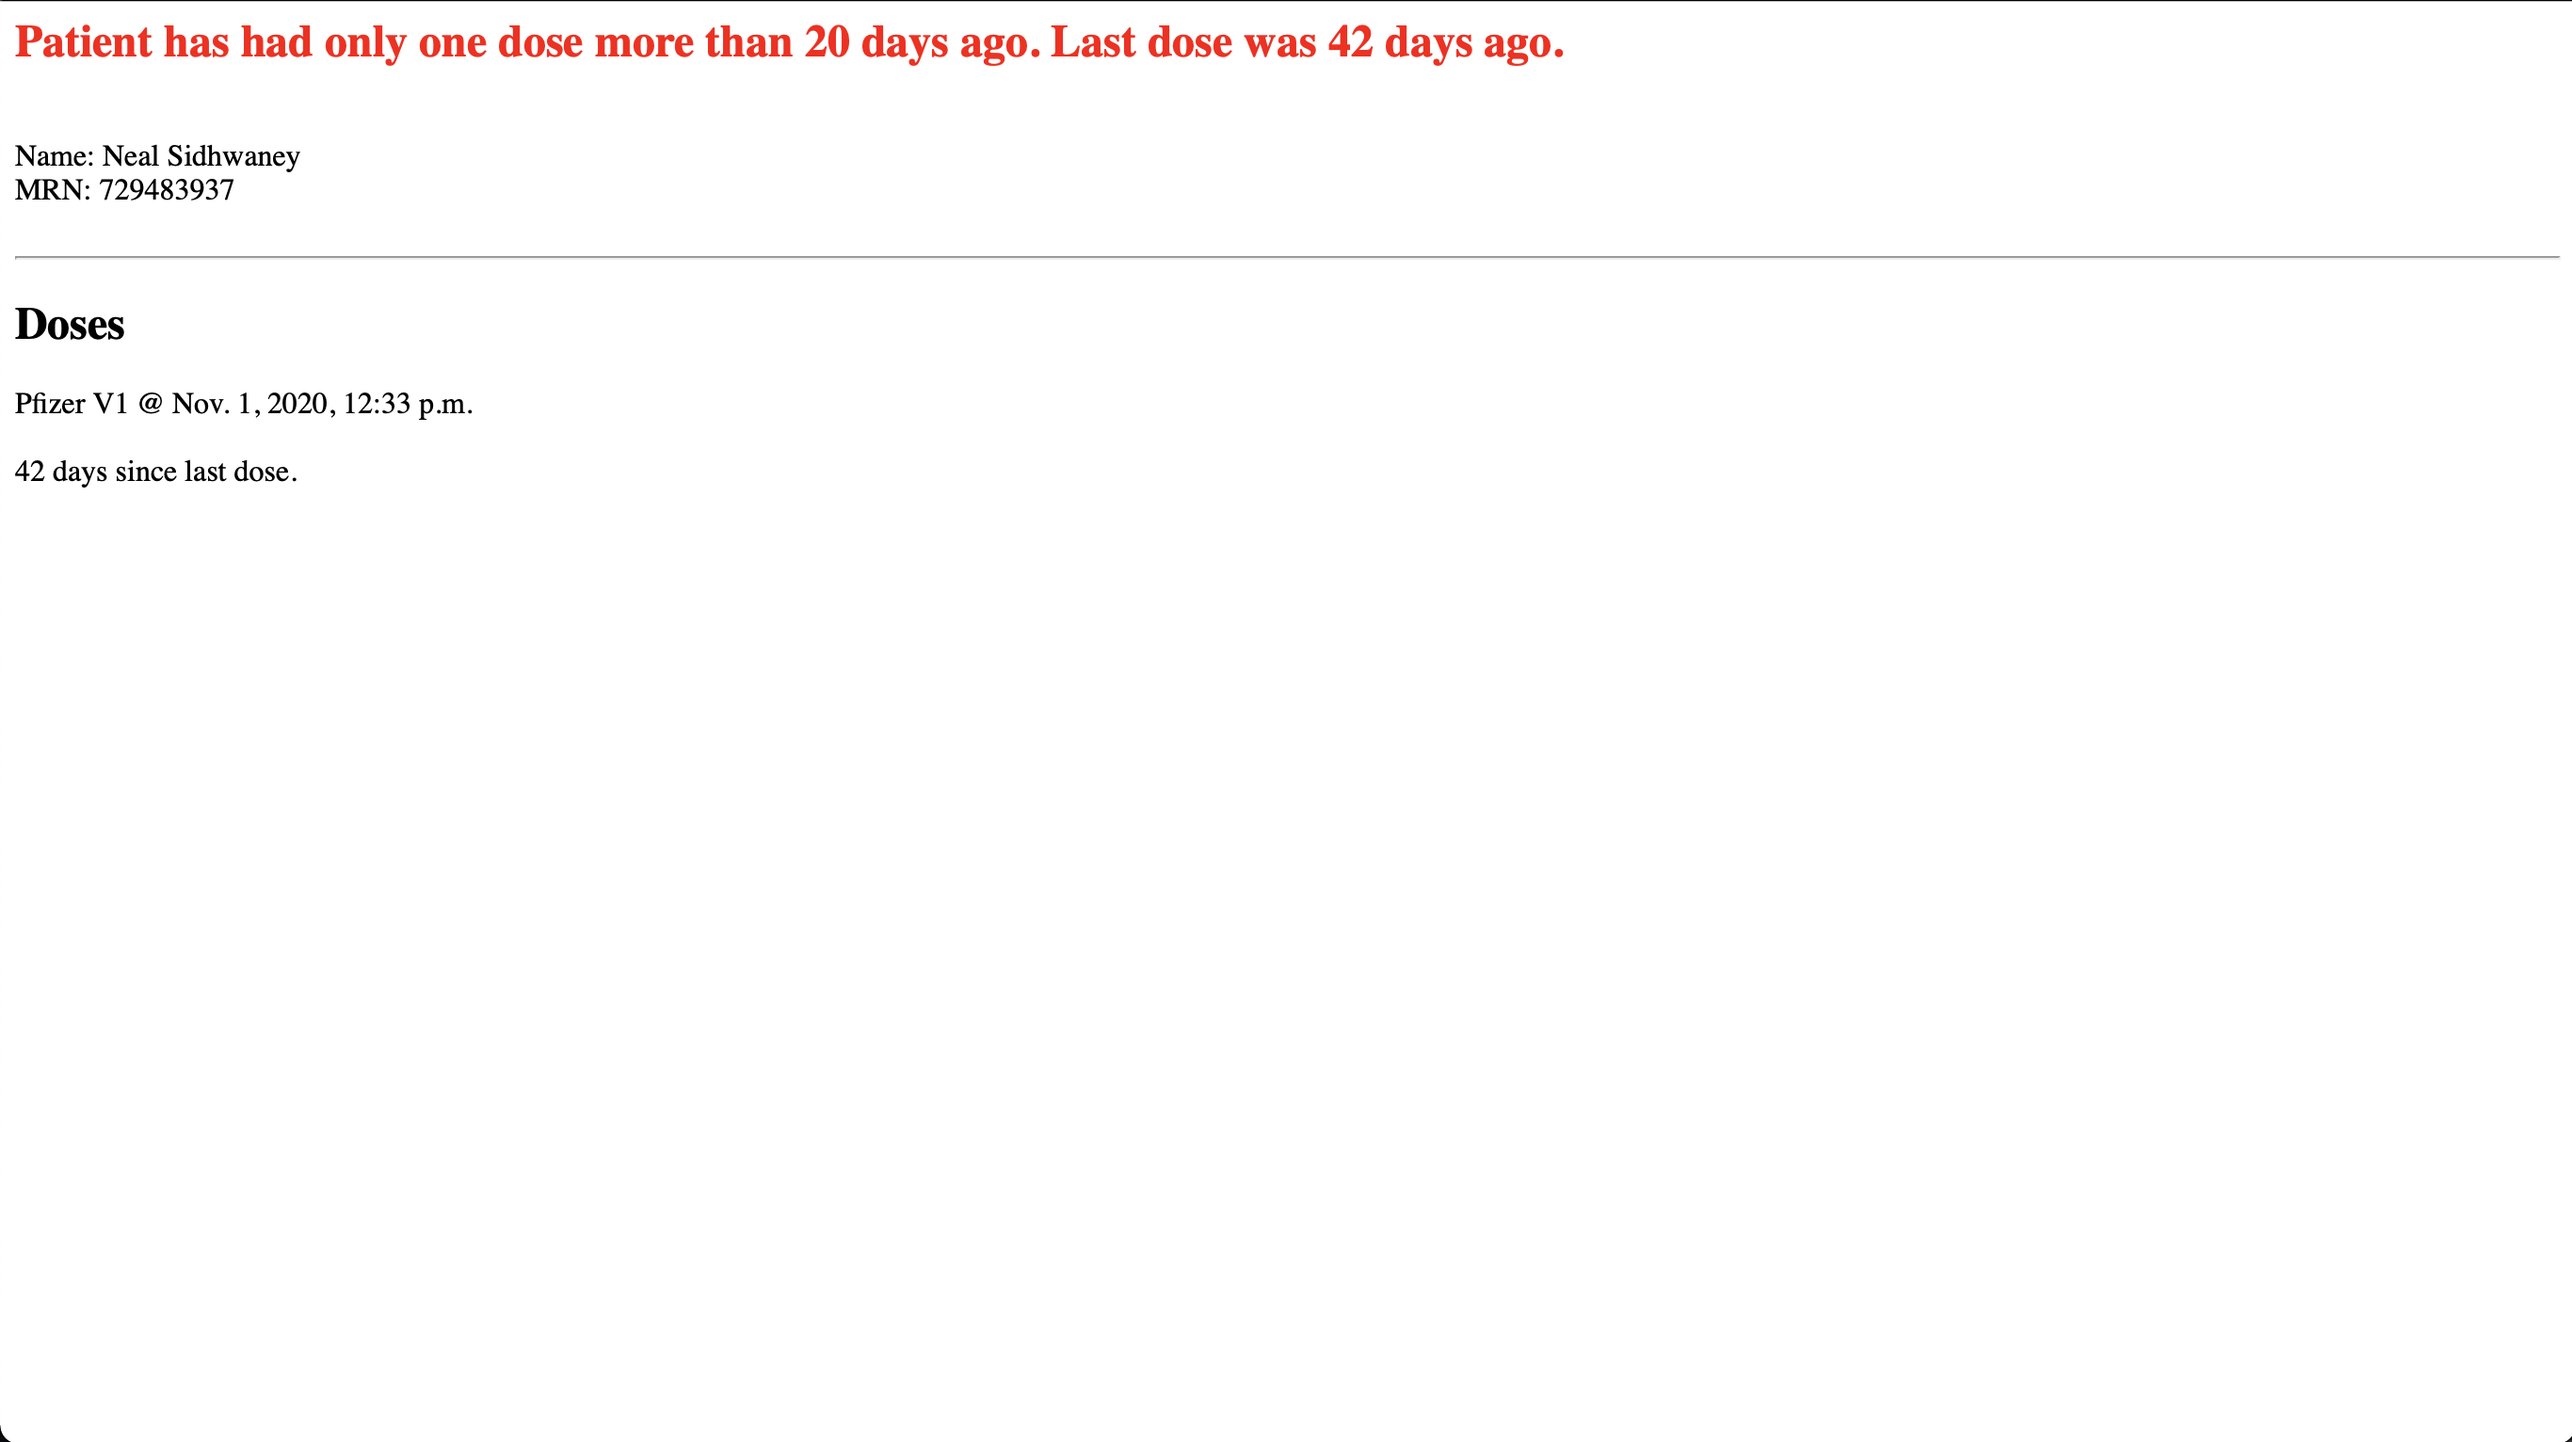
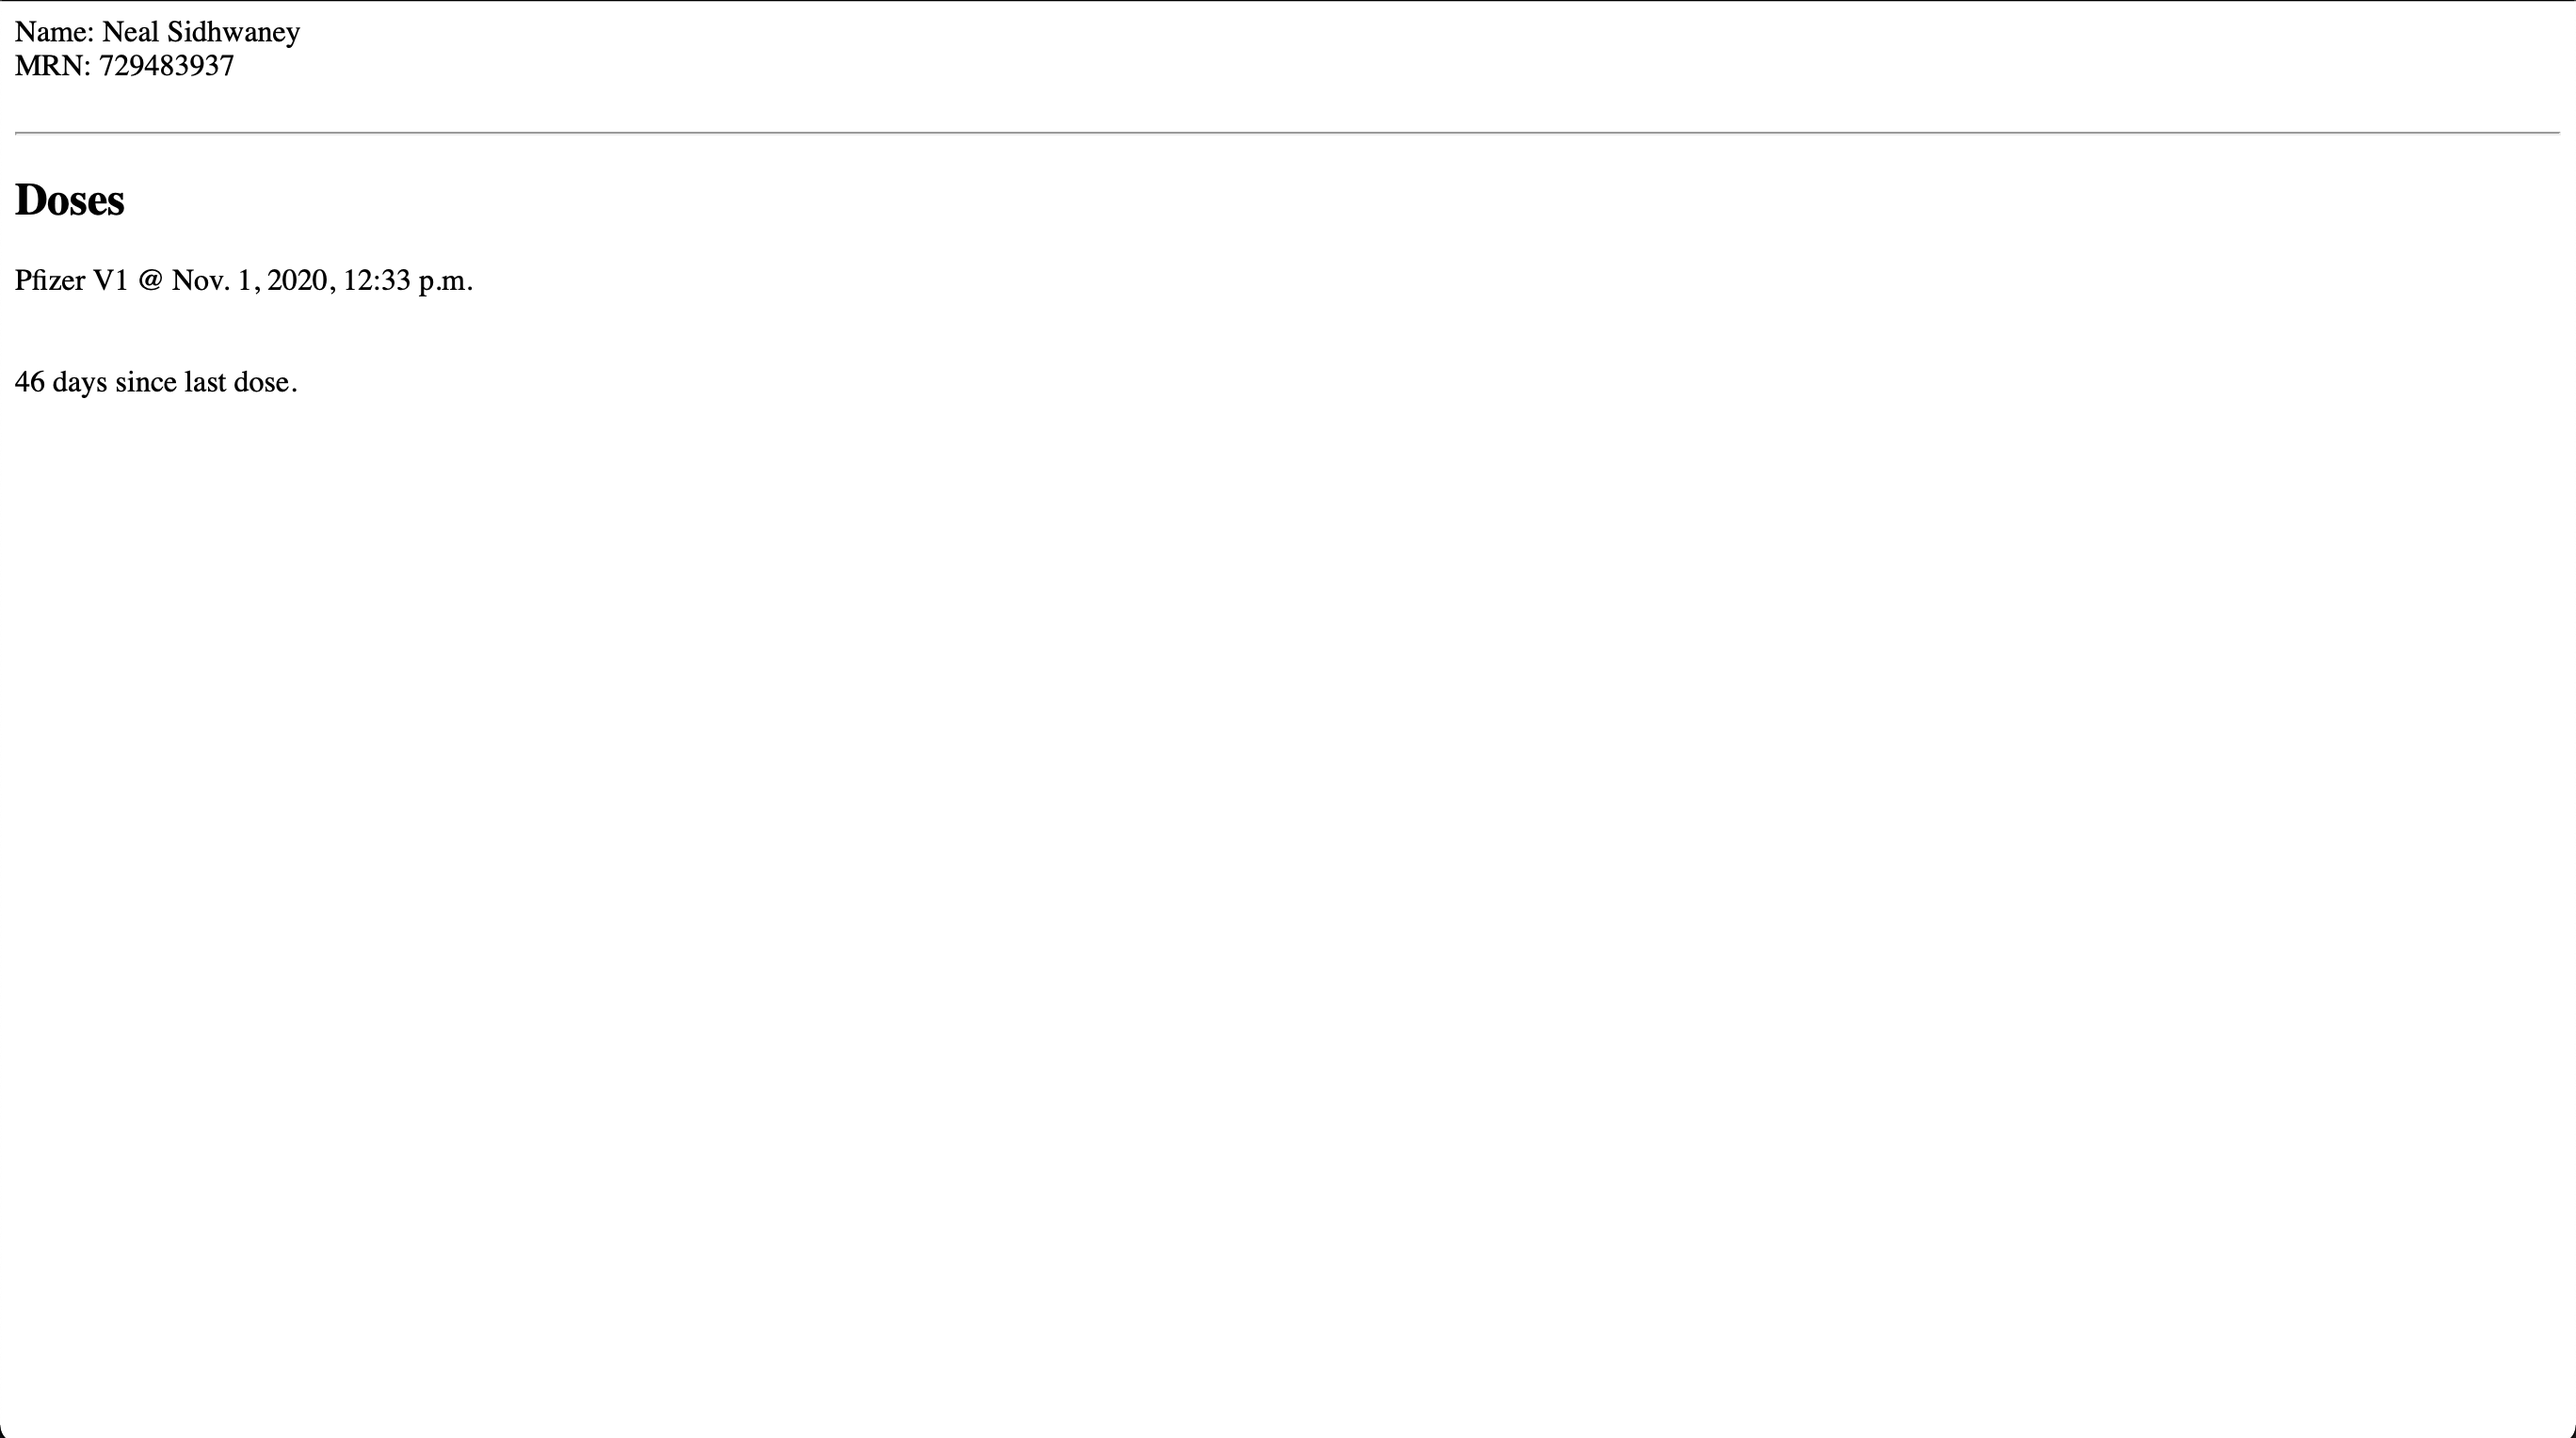
Experiment with U.I. for dose warnings.

diff --git a/nanny/frontend/templates/frontend/patient.html b/nanny/frontend/templates/frontend/patient.html
@@ -1,8 +1,3 @@
-{% if second_dose_warning %}
-<h2><font color=red>Patient has had only one dose more than 20 days ago.  Last dose was {{ days_since_last_vaccine }} days ago. </font></h2></br>
-{% endif %}
-
-
 Name: {{ patient.name }}<br>
 MRN: {{ patient.mrn }}<br><br>
 <hr>
